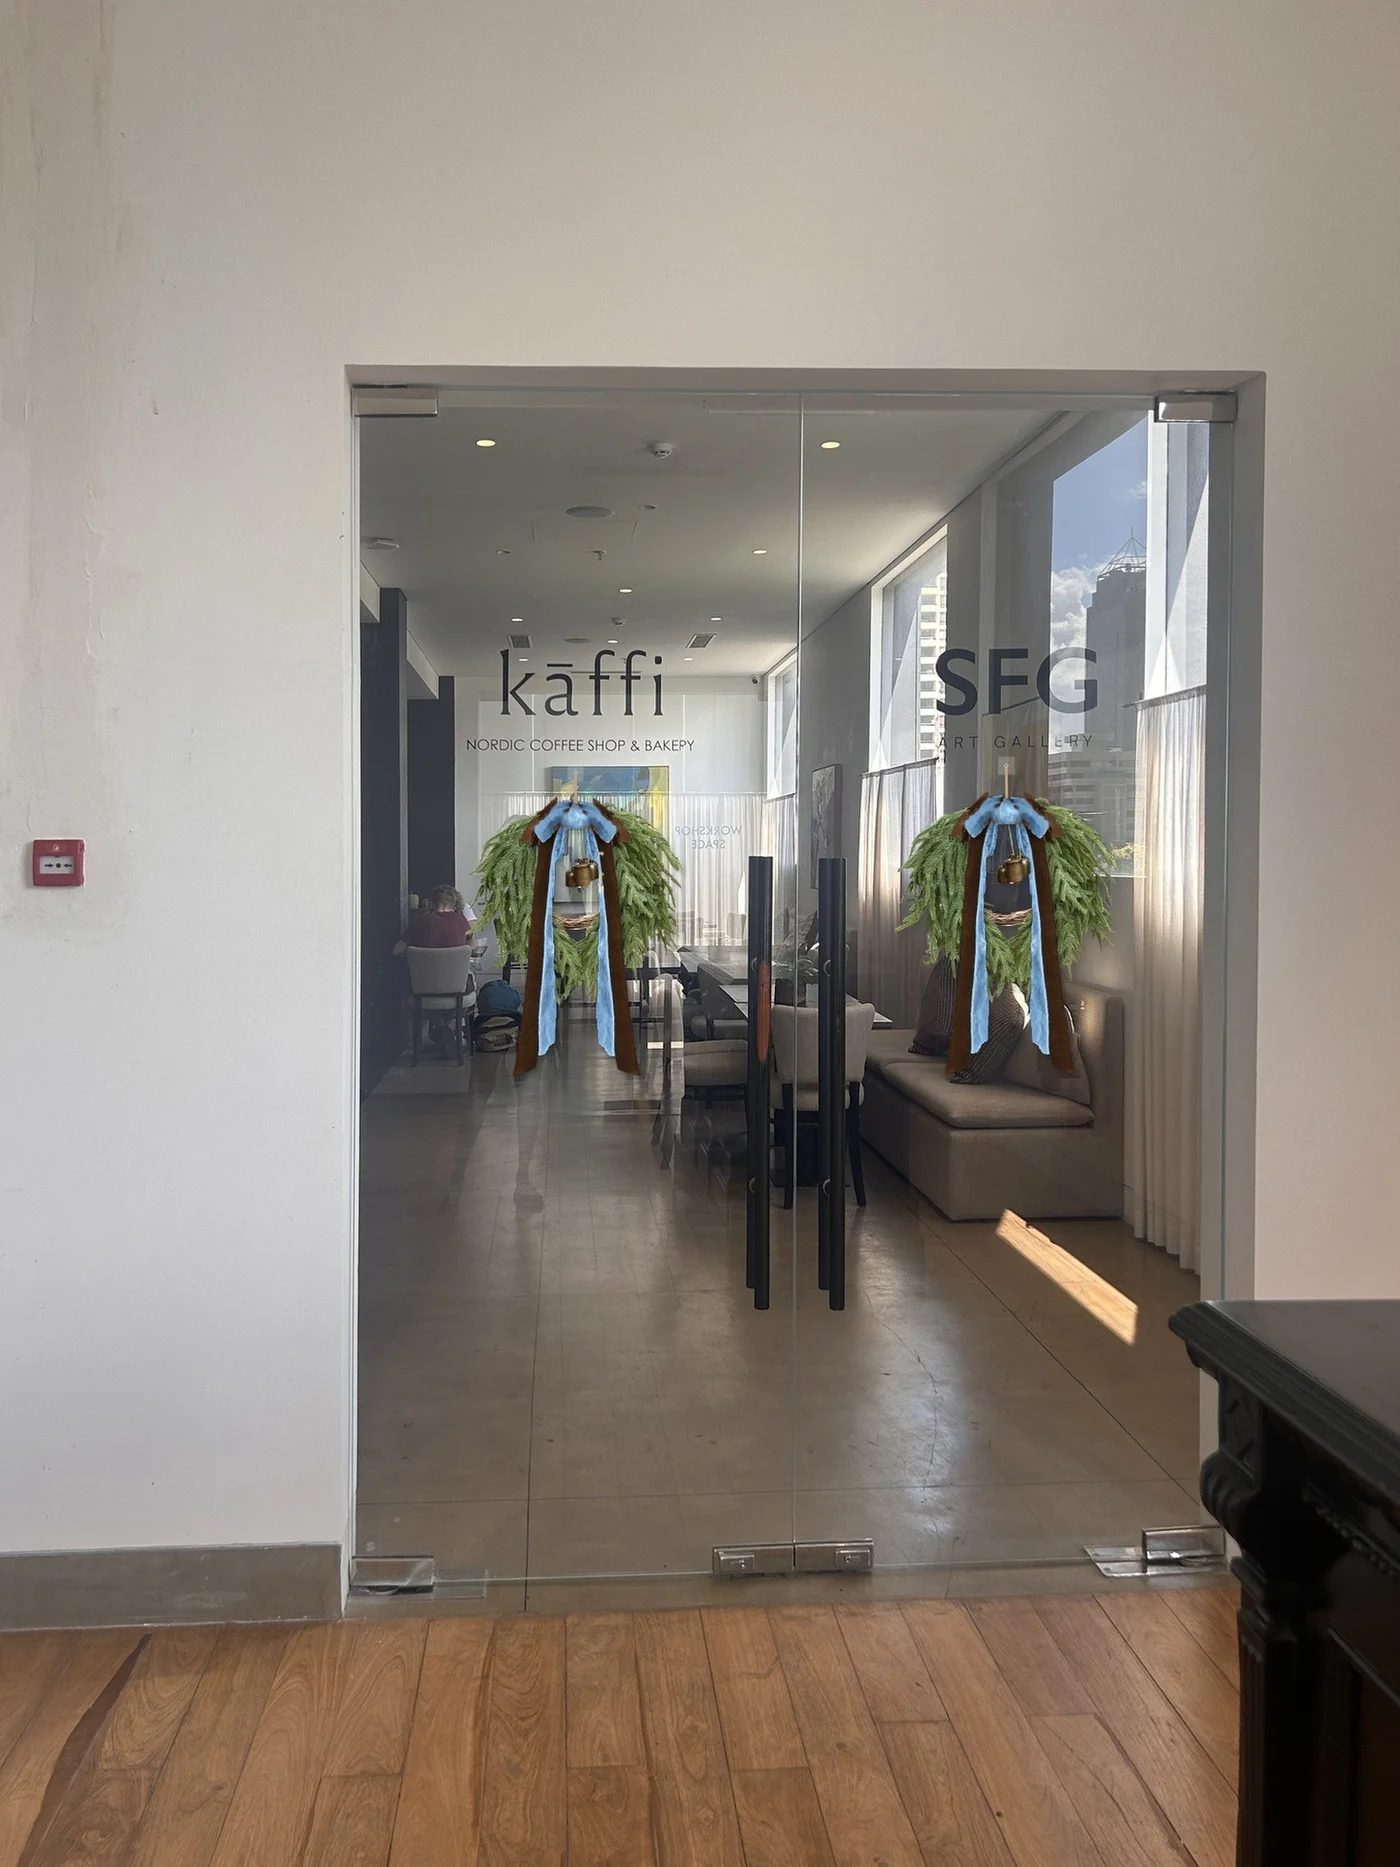
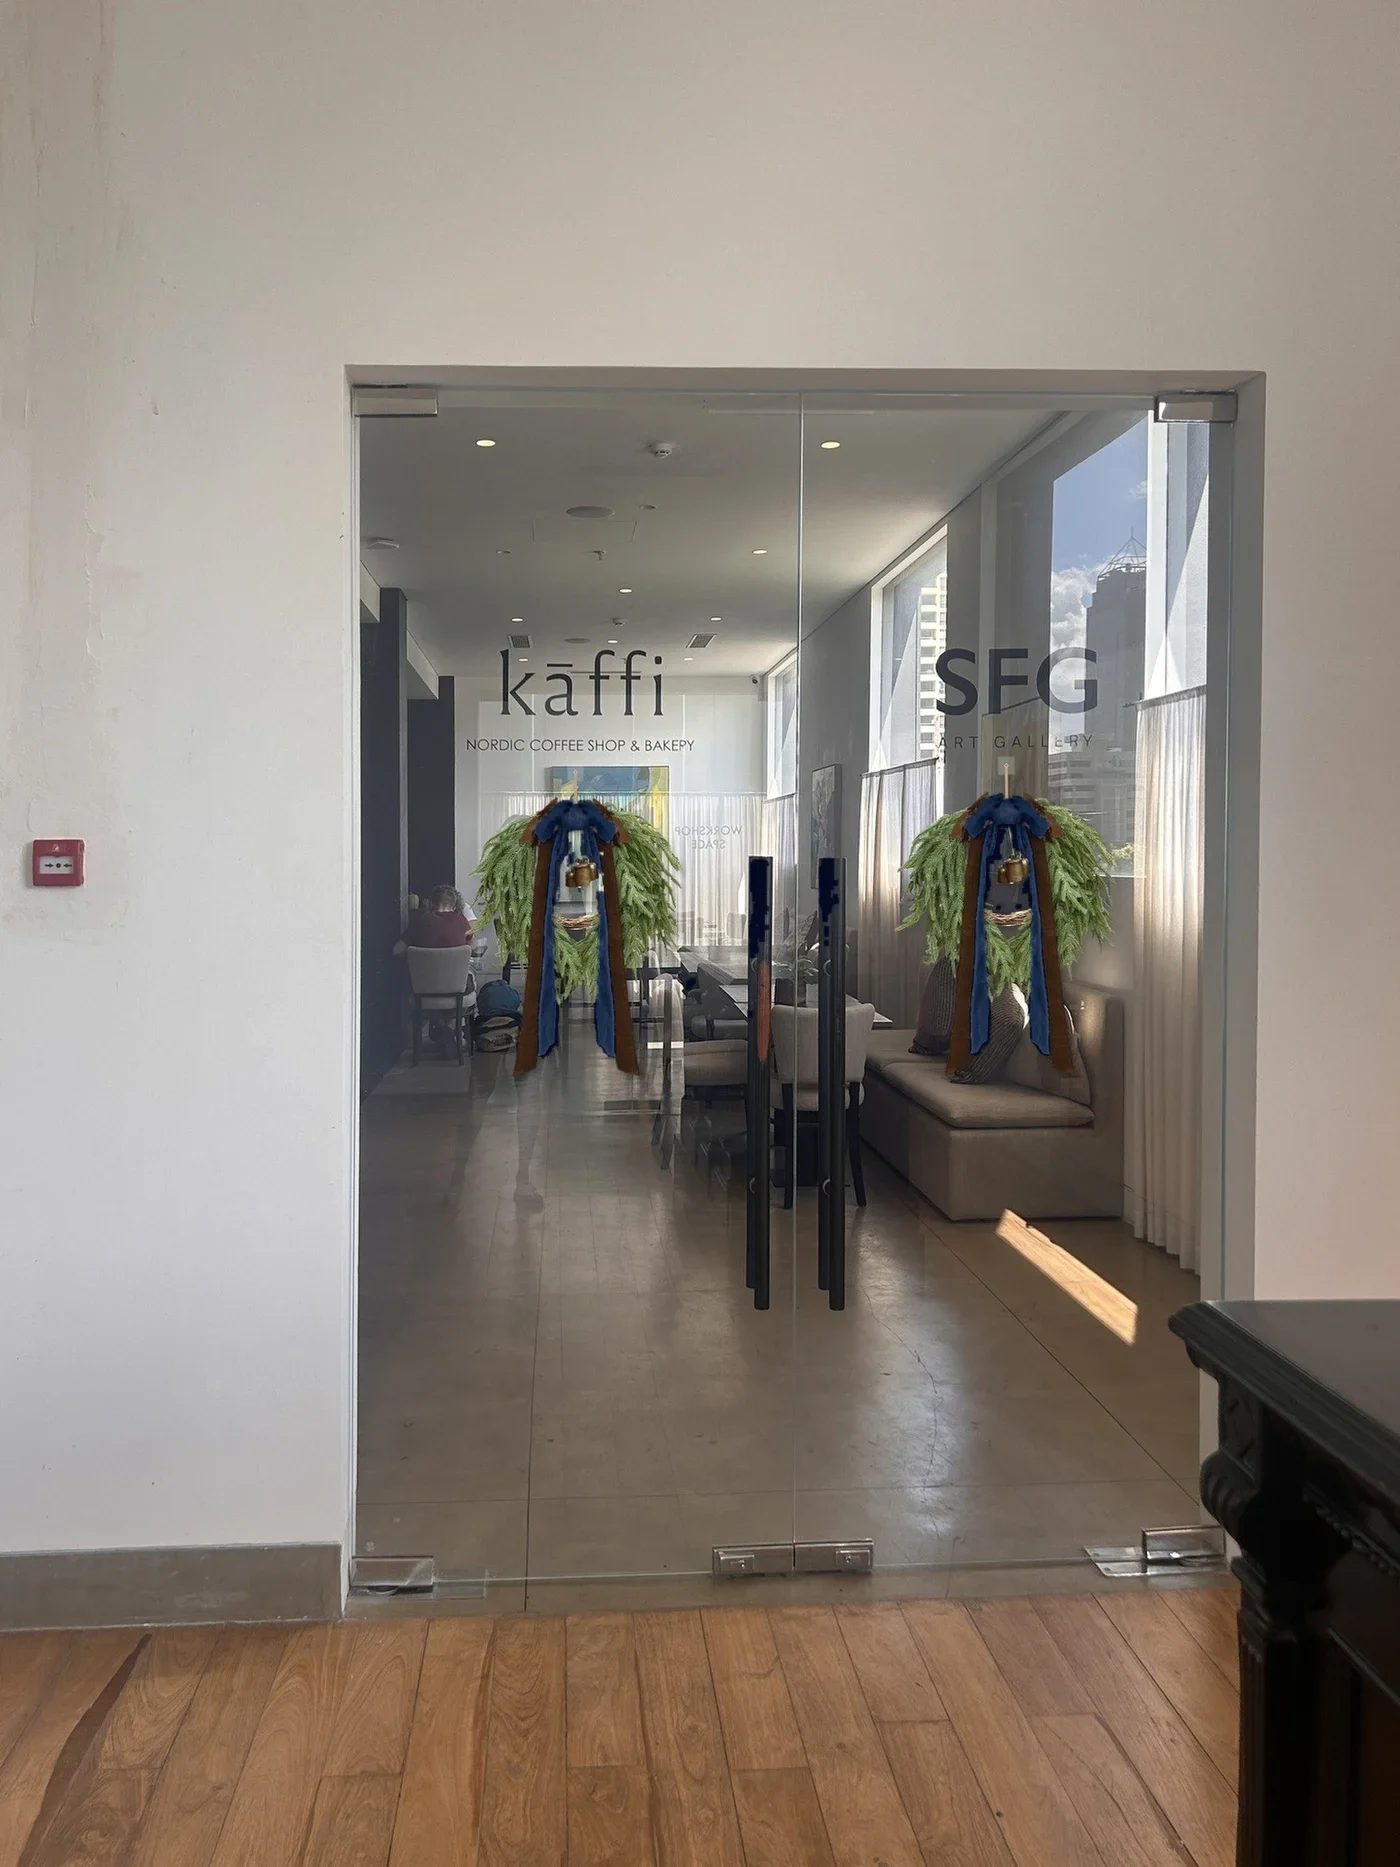
Kaffi concept: light blue ribbons to navy
Claude-Session: https://claude.ai/code/session_01GH687m9j9GhRmR5ivH2vMn

diff --git a/kaffi-concept-m7usbotbtu/index.html b/kaffi-concept-m7usbotbtu/index.html
@@ -76,7 +76,7 @@ section.render .wrap{padding-block:clamp(36px,6vw,64px);display:grid;gap:20px}
 <div class="meta">
 <div><span>Client</span><strong>Kaffi</strong></div>
 <div><span>Scope</span><strong>Entrance, lounge, dining, bar</strong></div>
-<div><span>Palette</span><strong>Cedar, chocolate, powder blue, kraft</strong></div>
+<div><span>Palette</span><strong>Cedar, chocolate, navy, kraft</strong></div>
 <div><span>Date</span><strong>13 November 2026</strong></div>
 </div>
 <ol class="index">
@@ -89,17 +89,17 @@ section.render .wrap{padding-block:clamp(36px,6vw,64px);display:grid;gap:20px}
 
 <section class="render portrait" id="entrance"><div class="wrap">
 <div class="rhead"><span class="no">01</span><h2>Entrance doors</h2></div>
-<div class="frame"><img src="img/door.webp" width="1400" height="1867" alt="Glass entrance doors to Kaffi with a soft cedar wreath on each door, tied with long double-layered chocolate and powder blue velvet ribbon and small gold bells"></div>
+<div class="frame"><img src="img/door.webp" width="1400" height="1867" alt="Glass entrance doors to Kaffi with a soft cedar wreath on each door, tied with long double-layered chocolate and navy velvet ribbon and small gold bells"></div>
 </div></section>
 
 <section class="render" id="lounge"><div class="wrap">
 <div class="rhead"><span class="no">02</span><h2>Lounge tree and window garland</h2></div>
-<div class="frame"><img src="img/tree.webp" width="1800" height="1350" loading="lazy" alt="Lounge corner with a dressed Christmas tree, powder blue and chocolate velvet ribbon bows, pastel and gold ornaments, kraft-wrapped gifts and cedar garlands across the windows"></div>
+<div class="frame"><img src="img/tree.webp" width="1800" height="1350" loading="lazy" alt="Lounge corner with a dressed Christmas tree, navy and chocolate velvet ribbon bows, pastel and gold ornaments, kraft-wrapped gifts and cedar garlands across the windows"></div>
 </div></section>
 
 <section class="render" id="dining"><div class="wrap">
 <div class="rhead"><span class="no">03</span><h2>Dining windows and table centrepieces</h2></div>
-<div class="frame"><img src="img/windows.webp" width="1800" height="1492" loading="lazy" alt="Dining area with cedar garlands framing two windows, hanging six-point kraft paper stars, and moss candle wreaths tied with powder blue velvet ribbon and taper candles on the tables"></div>
+<div class="frame"><img src="img/windows.webp" width="1800" height="1492" loading="lazy" alt="Dining area with cedar garlands framing two windows, hanging six-point kraft paper stars, and moss candle wreaths tied with navy velvet ribbon and taper candles on the tables"></div>
 <p class="note" style="margin-top:8px">Option two: the same set-up with chocolate velvet ribbon on the centrepieces.</p>
 <div class="frame"><img src="img/windows-choc.webp" width="1800" height="1492" loading="lazy" alt="The same dining set-up with moss candle wreaths tied with chocolate velvet ribbon"></div>
 <p class="note">If moss is not available in the quantity needed, below is the alternative table centrepiece.</p>
@@ -108,7 +108,7 @@ section.render .wrap{padding-block:clamp(36px,6vw,64px);display:grid;gap:20px}
 
 <section class="render" id="bar"><div class="wrap">
 <div class="rhead"><span class="no">04</span><h2>Bar front</h2></div>
-<div class="frame"><img src="img/bar.webp" width="1800" height="1155" loading="lazy" alt="Kaffi bar with a straight cedar garland along the counter dressed with twinkle lights, pine cones and gold berries, cornflower blue velvet ribbon and bell drops on the cupboard garland, and a snowy village of white ceramic houses, bottle-brush and ceramic trees and two little bears on the pastry showcase"></div>
+<div class="frame"><img src="img/bar.webp" width="1800" height="1155" loading="lazy" alt="Kaffi bar with a straight cedar garland along the counter dressed with twinkle lights, pine cones and gold berries, navy velvet ribbon and bell drops on the cupboard garland, and a snowy village of white ceramic houses, bottle-brush and ceramic trees and two little bears on the pastry showcase"></div>
 </div></section>
 
 <section class="render" id="swatches"><div class="wrap">
@@ -122,12 +122,12 @@ section.render .wrap{padding-block:clamp(36px,6vw,64px);display:grid;gap:20px}
 <figure><img src="img/sw-cherub.webp" width="600" height="600" loading="lazy" alt="Gold glitter cherub ornament playing a violin"><figcaption><span>Ornaments</span><b>Gold cherub ornaments</b></figcaption></figure>
 <figure><img src="img/sw-angel.webp" width="600" height="600" loading="lazy" alt="Antique gold metal angel ornament holding a star, hung on jute twine"><figcaption><span>Ornaments</span><b>Gold angel ornaments</b></figcaption></figure>
 <figure><img src="img/sw-velvet.webp" width="600" height="600" loading="lazy" alt="Chocolate velvet ribbon tied in a bow on a cedar wreath"><figcaption><span>Fabric</span><b>Chocolate velvet ribbon</b></figcaption></figure>
-<figure><img src="img/sw-velvet-blue.webp" width="600" height="600" loading="lazy" alt="Powder blue velvet ribbon tied in a bow on a cedar garland"><figcaption><span>Fabric</span><b>Powder blue velvet ribbon</b></figcaption></figure>
+<figure><img src="img/sw-velvet-blue.webp" width="600" height="600" loading="lazy" alt="Navy velvet ribbon tied in a bow on a cedar garland"><figcaption><span>Fabric</span><b>Navy velvet ribbon</b></figcaption></figure>
 <figure><img src="img/sw-kraft-star.webp" width="600" height="600" loading="lazy" alt="Six-point folded kraft paper star"><figcaption><span>Hanging</span><b>Six-point kraft paper stars</b></figcaption></figure>
 <figure><img src="img/sw-pinecone.webp" width="600" height="600" loading="lazy" alt="Natural pine cone nestled in fir and cedar greenery"><figcaption><span>Natural</span><b>Pine cones</b></figcaption></figure>
 <figure><img src="img/sw-ceramic-house.webp" width="600" height="600" loading="lazy" alt="White glazed ceramic house with cut-out windows"><figcaption><span>Village</span><b>White ceramic houses</b></figcaption></figure>
 </div>
-<div class="chips"><div><i style="background:#3E5B34"></i>Cedar</div><div><i style="background:#4E2A1A"></i>Chocolate</div><div><i style="background:#8FA6C1"></i>Powder blue</div><div><i style="background:#C8A27A"></i>Kraft</div><div><i style="background:#EBDFCB"></i>Cream</div><div><i style="background:#C9A3A6"></i>Blush</div><div><i style="background:#9AA7AC"></i>Dusty blue</div><div><i style="background:#B8964A"></i>Antique gold</div></div>
+<div class="chips"><div><i style="background:#3E5B34"></i>Cedar</div><div><i style="background:#4E2A1A"></i>Chocolate</div><div><i style="background:#1F2A44"></i>Navy</div><div><i style="background:#C8A27A"></i>Kraft</div><div><i style="background:#EBDFCB"></i>Cream</div><div><i style="background:#C9A3A6"></i>Blush</div><div><i style="background:#9AA7AC"></i>Dusty blue</div><div><i style="background:#B8964A"></i>Antique gold</div></div>
 </div></section>
 
 <p class="disc-bar"><b>Please note:</b> these renders show the <strong>proposed design concept.</strong> Finished designs may vary a little from the rendered images, and materials may vary depending on availability.</p>
